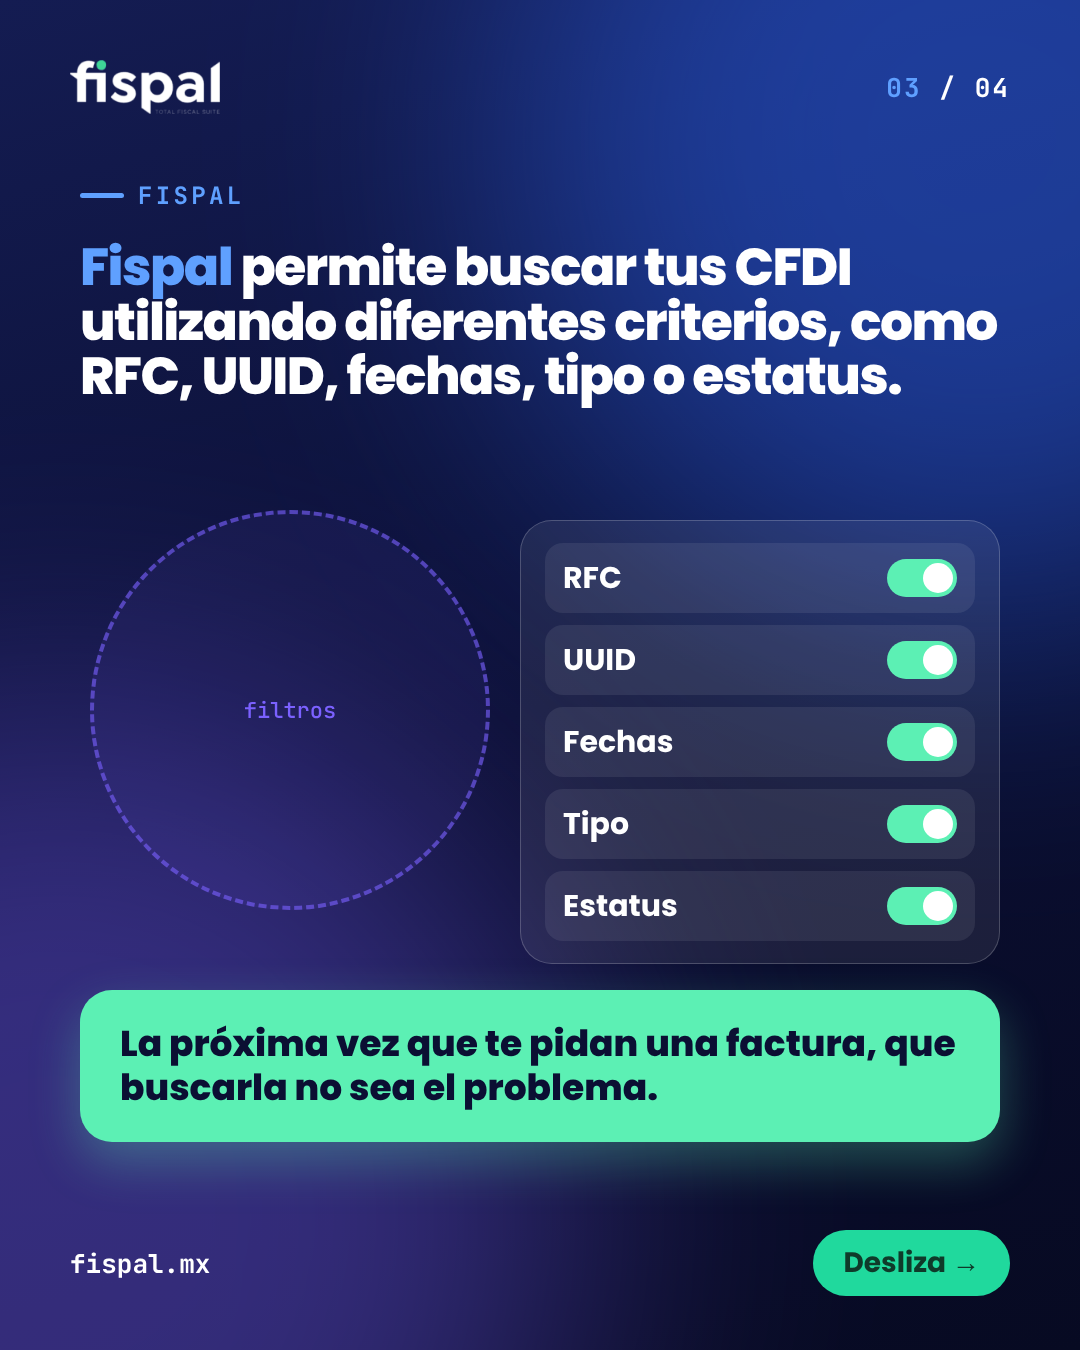
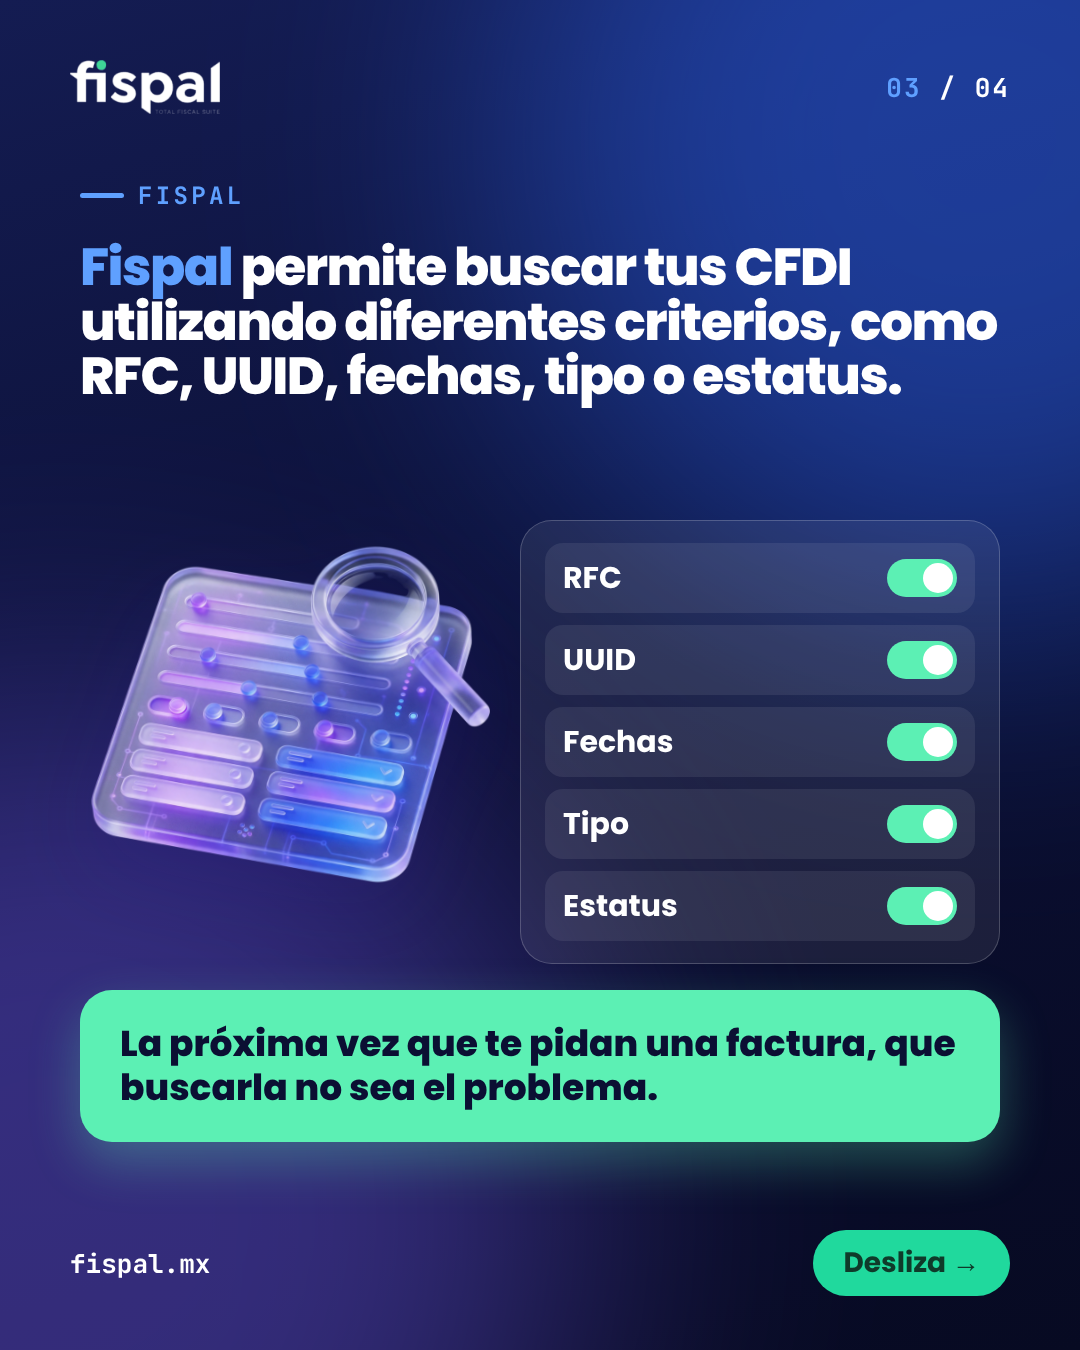
Fispal carrusel 6: ilustraciones de cristal
Claude-Session: https://claude.ai/code/session_01NghCctPQaKXziVeL1FGG6n

Changed region(s): [[0.0611, 0.4044, 0.4583, 0.6533]]

diff --git a/editor/src/carruseles/C6Factura.tsx b/editor/src/carruseles/C6Factura.tsx
@@ -112,7 +112,7 @@ const S4: React.FC = () => (
     <Photo name="c6-tablet" hint="Empresaria segura con tablet" position="50% 25%" radius={0} style={{ left: 0, right: 0, top: 0, height: 760, boxShadow: "none" }} />
     <div style={{ position: "absolute", left: 0, right: 0, top: 0, height: 200, background: "linear-gradient(180deg, rgba(11,15,51,.75), rgba(11,15,51,0))" }} />
     <div style={{ position: "absolute", left: 0, right: 0, top: 460, height: 310, background: "linear-gradient(180deg, rgba(11,15,51,0), #0B0F33 92%)" }} />
-    <Glass3D name="factura-ok" x={870} y={620} size={300} />
+    <Glass3D name="factura-ok" x={880} y={570} size={280} />
     <div style={{ position: "absolute", left: L, right: L, top: 760, textAlign: "center" }}>
       <Title t={t} size={76} parts={["Consulta tus CFDI con ", { hl: "Fispal." }]} />
     </div>
